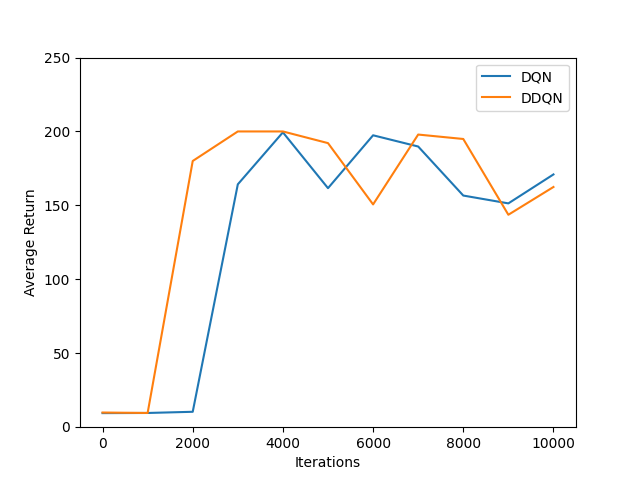
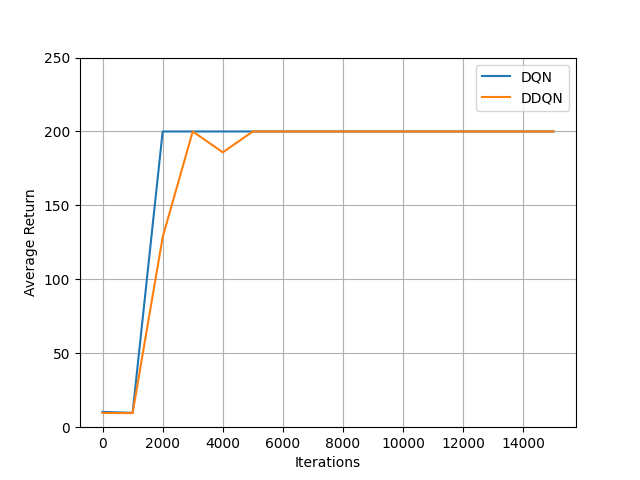
Update hw8

diff --git a/src/main.py b/src/main.py
@@ -15,7 +15,7 @@ display = pyvirtualdisplay.Display(visible=1, size=(1400, 900)).start()
 
 tf.version.VERSION
 
-num_iterations = 10000 # @param {type:"integer"}
+num_iterations = 15000 # @param {type:"integer"}
 
 initial_collect_steps = 100  # @param {type:"integer"}
 collect_steps_per_iteration =   1 # @param {type:"integer"}
@@ -37,42 +37,60 @@ action_tensor_spec = tensor_spec.from_spec(env.action_spec())
 num_actions = action_tensor_spec.maximum - action_tensor_spec.minimum + 1
 
 global_returns = {}
-optimizers = [
-    tf.keras.optimizers.Adam(learning_rate=learning_rate),
-    tf.keras.optimizers.SGD(learning_rate=learning_rate*10)
-]
-algos = [DQN, DDQN]
+lr_schedule = tf.keras.optimizers.schedules.ExponentialDecay(
+    learning_rate*10,
+    decay_steps=num_iterations,
+    decay_rate=0.96,
+    staircase=True)
+optimizers = {
+    'DQN': [tf.keras.optimizers.SGD(learning_rate*5), # (learning_rate=learning_rate*10)
+    tf.keras.optimizers.Adam(learning_rate)], # (learning_rate=learning_rate),
+    'DDQN': [tf.keras.optimizers.SGD(learning_rate*10), 
+    tf.keras.optimizers.Adam(learning_rate)]
+}
+algos = [DDQN]#, DDQN]
 
-with open('results_final.txt', 'a') as f:
-    for ALGO in algos:
-        local_returns = {}
-        f.write(f'========= {ALGO} =========\n')
-        print(f'========= {ALGO} =========')
-        for optimizer in optimizers:
-            algo = ALGO(fc_layer_params, num_actions, optimizer)
-            algo_name = algo.name()
-            name = optimizer._name
-            f.write(f'-------- {name} --------\n')
-            print(f'-------- {name} --------')
-            buffer = ReplayBuffer(replay_buffer_max_length)
-            buffer.fill_buffer(env, algo, initial_collect_steps)
-            returns = train(env, 
-                            algo, 
-                            buffer, 
-                            num_iterations=num_iterations, 
-                            batch_size=batch_size, 
-                            log_interval=log_interval, 
-                            num_eval_episodes=num_eval_episodes, 
-                            eval_interval=eval_interval)
-            f.write(','.join(list(map(str, returns))))
-            print(','.join(list(map(str, returns))))
-            f.write('\n')
-            local_returns[name] = returns
-            del algo
-            del buffer
-        global_returns[algo_name] = local_returns
+# with open('final.txt', 'a') as f:
+#     for ALGO in algos:
+#         local_returns = {}
+#         f.write(f'========= {ALGO.name()} =========\n')
+#         print(f'========= {ALGO.name()} =========')
+#         for optimizer in optimizers[ALGO.name()]:
+#             algo = ALGO(fc_layer_params, num_actions, optimizer)
+#             algo_name = algo.name()
+#             name = optimizer._name
+#             f.write(f'-------- {name} --------\n')
+#             print(f'-------- {name} --------')
+#             buffer = ReplayBuffer(replay_buffer_max_length)
+#             buffer.fill_buffer(env, algo, initial_collect_steps)
+#             returns = train(env, 
+#                             algo, 
+#                             buffer, 
+#                             num_iterations=num_iterations, 
+#                             batch_size=batch_size, 
+#                             log_interval=log_interval, 
+#                             num_eval_episodes=num_eval_episodes, 
+#                             eval_interval=eval_interval)
+#             f.write(','.join(list(map(str, returns))))
+#             print(','.join(list(map(str, returns))))
+#             f.write('\n')
+#             local_returns[name] = returns
+#             del algo
+#             del buffer
+#         global_returns[algo_name] = local_returns
 
-plot_return(num_iterations, eval_interval, global_returns['DDQN'], ['SGD'], 'ddqn_sgd_2.png')
+# plot_return(num_iterations, eval_interval, global_returns['DDQN'], ['SGD'], 'ddqn_sgd_2.png')
+
+global_returns = {
+    'DQN': {
+        'Adam': [10.2,9.6,200.0,200.0,200.0,200.0,200.0,200.0,200.0,200.0,200.0,200.0,200.0,200.0,200.0,200.0],
+        'SGD': [13.7,9.2,92.3,197.0,200.0,200.0,200.0,200.0,200.0,200.0,200.0,200.0,181.3,200.0,200.0,200.0]
+    },
+    'DDQN': {
+        'Adam': [9.5,9.4,128.5,200.0,185.9,200.0,200.0,200.0,200.0,200.0,200.0,200.0,200.0,200.0,200.0,200.0],
+        'SGD': [9.5,9.4,116.6,193.5,193.3,197.2,193.5,192.9,200.0,187.3,200.0,195.3,198.3,139.2,169.9,198.1]
+    }
+}
 
 plot_return(num_iterations, eval_interval, global_returns['DQN'], ['Adam'], '1a.png')
 plot_return(num_iterations, eval_interval, global_returns['DQN'], global_returns['DQN'].keys(), '1b.png')

diff --git a/src/dqn.py b/src/dqn.py
@@ -5,7 +5,7 @@ from tf_agents.utils import common
 
 
 class DQN:
-    def __init__(self, fc_layer_params, num_actions, optimizer, eps=0.05) -> None:
+    def __init__(self, fc_layer_params, num_actions, optimizer, eps=0.1) -> None:
         self.fc_layer_params = fc_layer_params
         self.num_actions = num_actions
         self.optimizer = optimizer
@@ -35,7 +35,7 @@ class DQN:
                       loss='mse')
         return q_net
 
-    def update_target_net(self) -> None:
+    def _update_target_net(self) -> None:
         self.target_net.set_weights(self.q_net.get_weights())
 
     def random_action(self) -> int:
@@ -48,12 +48,14 @@ class DQN:
         opt_action = np.argmax(cur_actions[0], axis=0)
         return opt_action
 
-    def get_action(self, state, random=False) -> int:
+    def get_action(self, state, random=False, deterministic=False) -> int:
+        if deterministic:
+            return self._get_action(state)
         if random or np.random.random() < self.eps:
             return self.random_action()
         return self._get_action(state)
 
-    def train(self, experience_batch, gamma=0.9) -> float:
+    def train(self, experience_batch, gamma=1.0) -> float:
         states, actions, next_states, rewards, dones = experience_batch
         target_qval = self.q_net(states).numpy()
         next_target_qval = self.target_net(next_states).numpy()
@@ -62,20 +64,22 @@ class DQN:
             if not dones[i]:
                 reward += gamma * max_next_qval[i]
             target_qval[i][actions[i]] = reward
+        self._update_target_net()
         summary = self.q_net.fit(states, target_qval, verbose=0)
         train_loss = summary.history['loss'][0]
         return train_loss
 
-    def name(self) -> str:
+    @staticmethod
+    def name() -> str:
         return 'DQN'
 
 
 
 class DDQN(DQN):
-    def __init__(self, fc_layer_params, num_actions, optimizer, eps=0.05) -> None:
+    def __init__(self, fc_layer_params, num_actions, optimizer, eps=0.1) -> None:
         super().__init__(fc_layer_params, num_actions, optimizer, eps)
 
-    def train(self, experience_batch, gamma=0.9) -> float:
+    def train(self, experience_batch, gamma=1.0) -> float:
         states, actions, next_states, rewards, dones = experience_batch
         target_qval = self.q_net(states).numpy()
         next_qval = self.q_net(next_states).numpy()
@@ -85,10 +89,12 @@ class DDQN(DQN):
             if not dones[i]:
                 reward += gamma * next_target_qval[i][argmax_next_qval[i]]
             target_qval[i][actions[i]] = reward
+        self._update_target_net()
         summary = self.q_net.fit(states, target_qval, verbose=0)
         train_loss = summary.history['loss'][0]
         return train_loss
 
-    def name(self) -> str:
+    @staticmethod
+    def name() -> str:
         return 'DDQN'
     

diff --git a/src/train.py b/src/train.py
@@ -1,5 +1,3 @@
-from replay_buffer import ReplayBuffer
-from dqn import DQN
 
 def compute_avg_return(env, algo, num_episodes=10):
   total_return = 0.0
@@ -9,7 +7,7 @@ def compute_avg_return(env, algo, num_episodes=10):
     episode_return = 0.0
 
     while not time_step.is_last():
-        action = algo.get_action([state])
+        action = algo.get_action([state], deterministic=True)
         time_step = env.step(action)
         state = time_step.observation
         reward = time_step.reward
@@ -35,12 +33,11 @@ def train(env, algo, buffer, **kwargs):
         train_loss = algo.train(experience_batch)
 
         if step % kwargs['log_interval'] == 0:
-            algo.update_target_net()
             print('step = {0}: loss = {1}'.format(step, train_loss))
 
         if step % kwargs['eval_interval'] == 0:
-            avg_return = compute_avg_return(env, algo, kwargs['num_eval_episodes'])
-            print('step = {0}: Average Return = {1}'.format(step, avg_return))
-            returns.append(avg_return)
+          avg_return = compute_avg_return(env, algo, kwargs['num_eval_episodes'])
+          print('step = {0}: Average Return = {1}'.format(step, avg_return))
+          returns.append(avg_return)
 
     return returns

diff --git a/src/utils.py b/src/utils.py
@@ -11,9 +11,10 @@ def plot_return(num_iterations, eval_interval, global_returns, labels, filename)
     plt.clf()
 
     for label in labels:
-        plt.plot(iterations, global_returns[label], label=label)
+        plt.plot(iterations, global_returns[label], label=label) 
 
     plt.legend()
+    plt.grid()
     plt.ylabel('Average Return')
     plt.xlabel('Iterations')
     plt.ylim(top=250)
